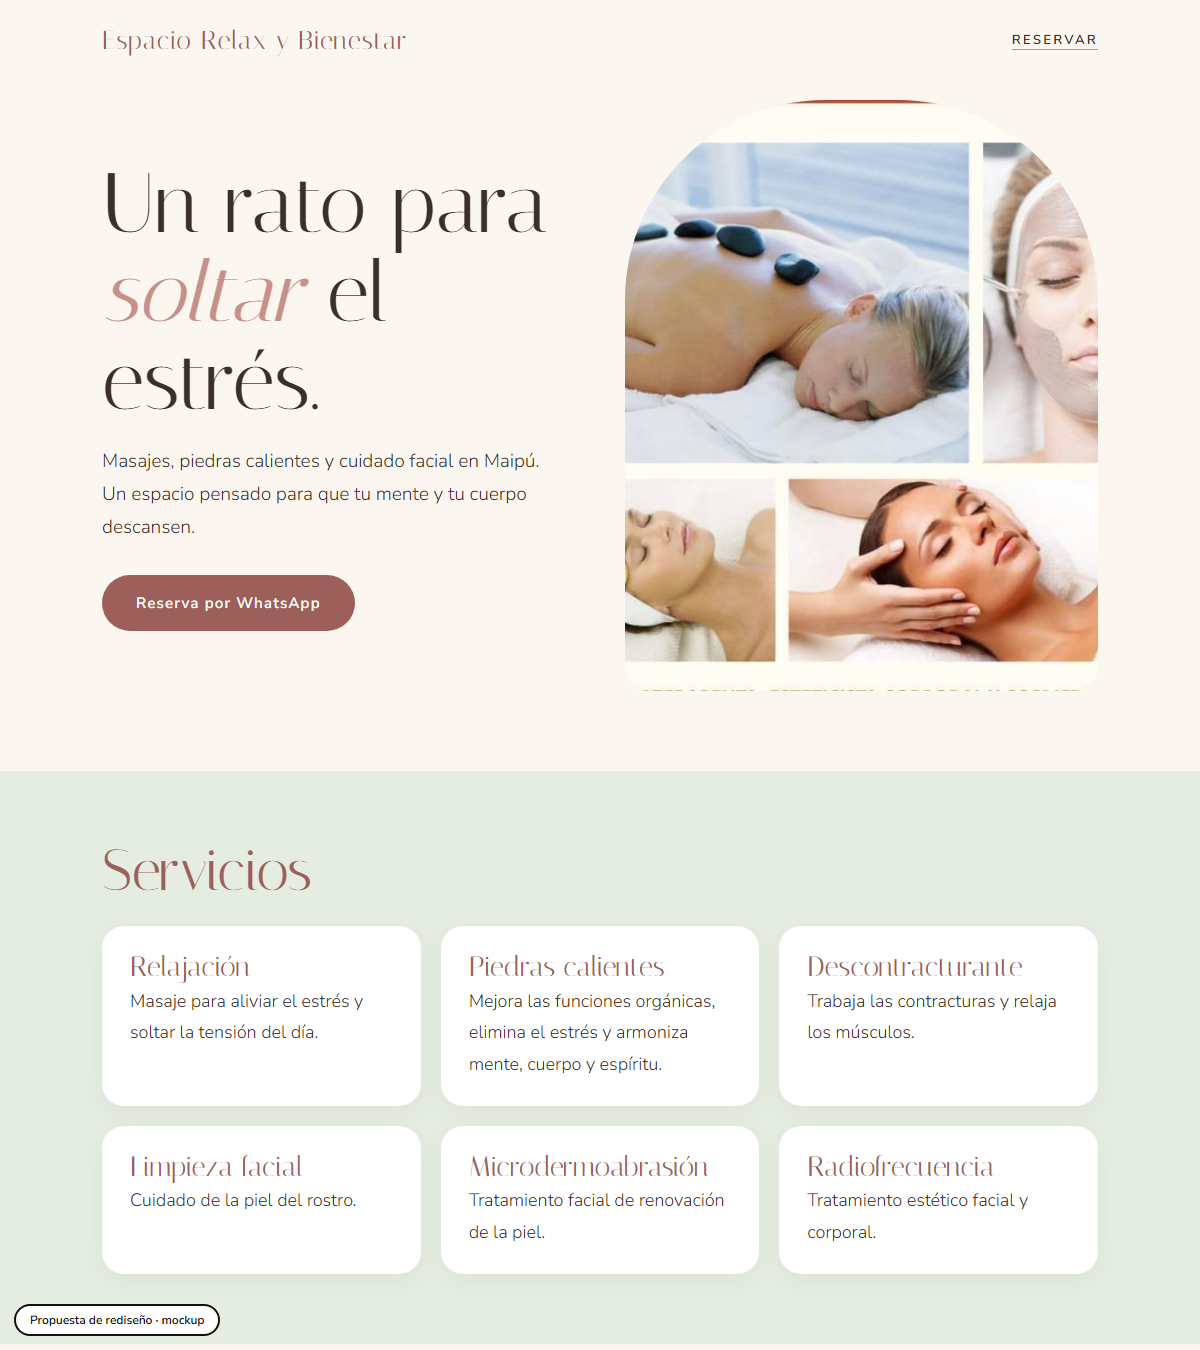
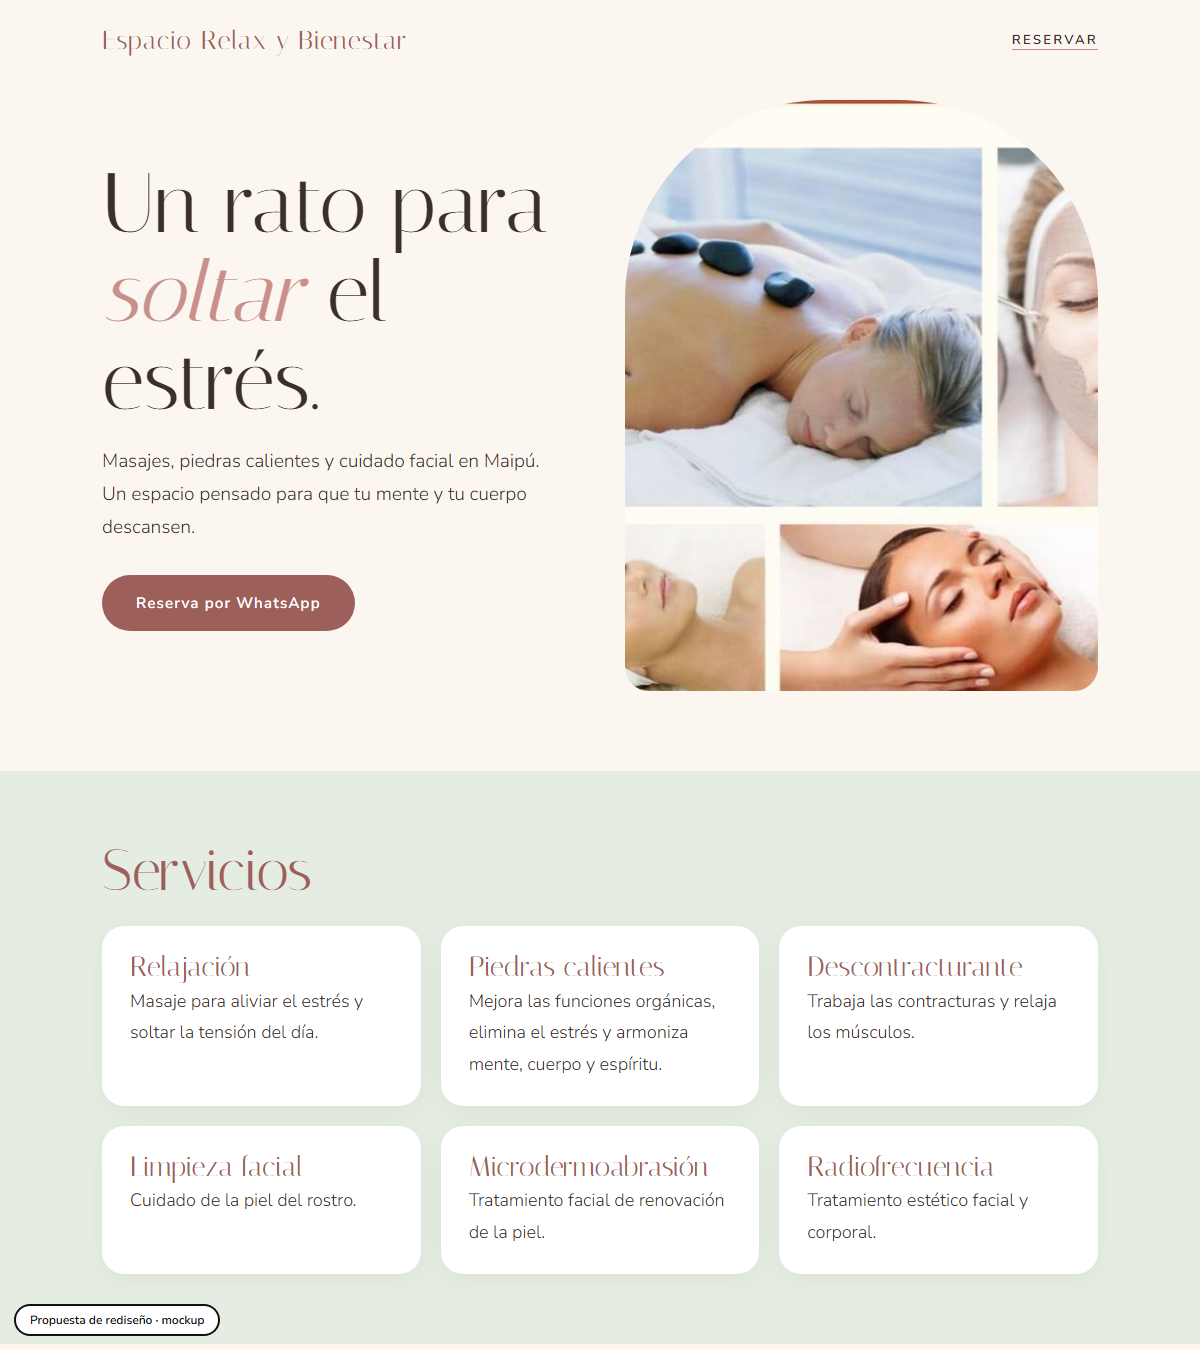
Mockup: espacio-relax-y-bienestar-josefina-diaz-maipu

Changed region(s): [[0.4933, 0.0933, 0.925, 0.5289]]

diff --git a/espacio-relax-y-bienestar-josefina-diaz-maipu/index.html b/espacio-relax-y-bienestar-josefina-diaz-maipu/index.html
@@ -18,7 +18,7 @@ header a{color:var(--ink);text-decoration:none;font:600 13px 'Nunito Sans';lette
 .hero .wrap{display:grid;grid-template-columns:1fr 1fr;gap:50px;align-items:center;padding-top:20px;padding-bottom:80px}
 .hero h1{font-size:clamp(46px,7vw,88px)}.hero h1 i{color:var(--rose)}
 .hero p{margin:20px 0 30px;max-width:40ch;font-size:19px}
-.hero img{width:100%;aspect-ratio:4/5;object-fit:cover;object-position:top;border-radius:200px 200px 24px 24px}
+.hero .im{overflow:hidden;aspect-ratio:4/5;border-radius:200px 200px 24px 24px}.hero .im img{width:100%;height:100%;object-fit:cover;object-position:top;transform:scale(1.12);transform-origin:top center}
 section{padding:70px 0}h2{font-size:clamp(36px,5vw,58px);margin-bottom:24px;color:var(--rosed)}
 .soft{background:var(--sagel)}
 .menu{display:grid;grid-template-columns:repeat(auto-fit,minmax(280px,1fr));gap:20px}
@@ -37,7 +37,7 @@ footer{padding:26px 0 90px;font-size:14px;opacity:.6;text-align:center}
 <div class="hero"><div class="wrap"><div><h1>Un rato para <i>soltar</i> el estrés.</h1>
 <p>Masajes, piedras calientes y cuidado facial en Maipú. Un espacio pensado para que tu mente y tu cuerpo descansen.</p>
 <a class="btn" href="https://wa.me/56940958996?text=Hola%2C%20quisiera%20reservar%20un%20masaje">Reserva por WhatsApp</a></div>
-<img src="assets/hero.jpg" alt="Masaje con piedras calientes y limpieza facial"></div></div>
+<div class="im"><img src="assets/hero.jpg" alt="Masaje con piedras calientes y limpieza facial"></div></div></div>
 <section class="soft" id="servicios"><div class="wrap"><h2>Servicios</h2><div class="menu">
 <div><h3>Relajación</h3><p>Masaje para aliviar el estrés y soltar la tensión del día.</p></div>
 <div><h3>Piedras calientes</h3><p>Mejora las funciones orgánicas, elimina el estrés y armoniza mente, cuerpo y espíritu.</p></div>
